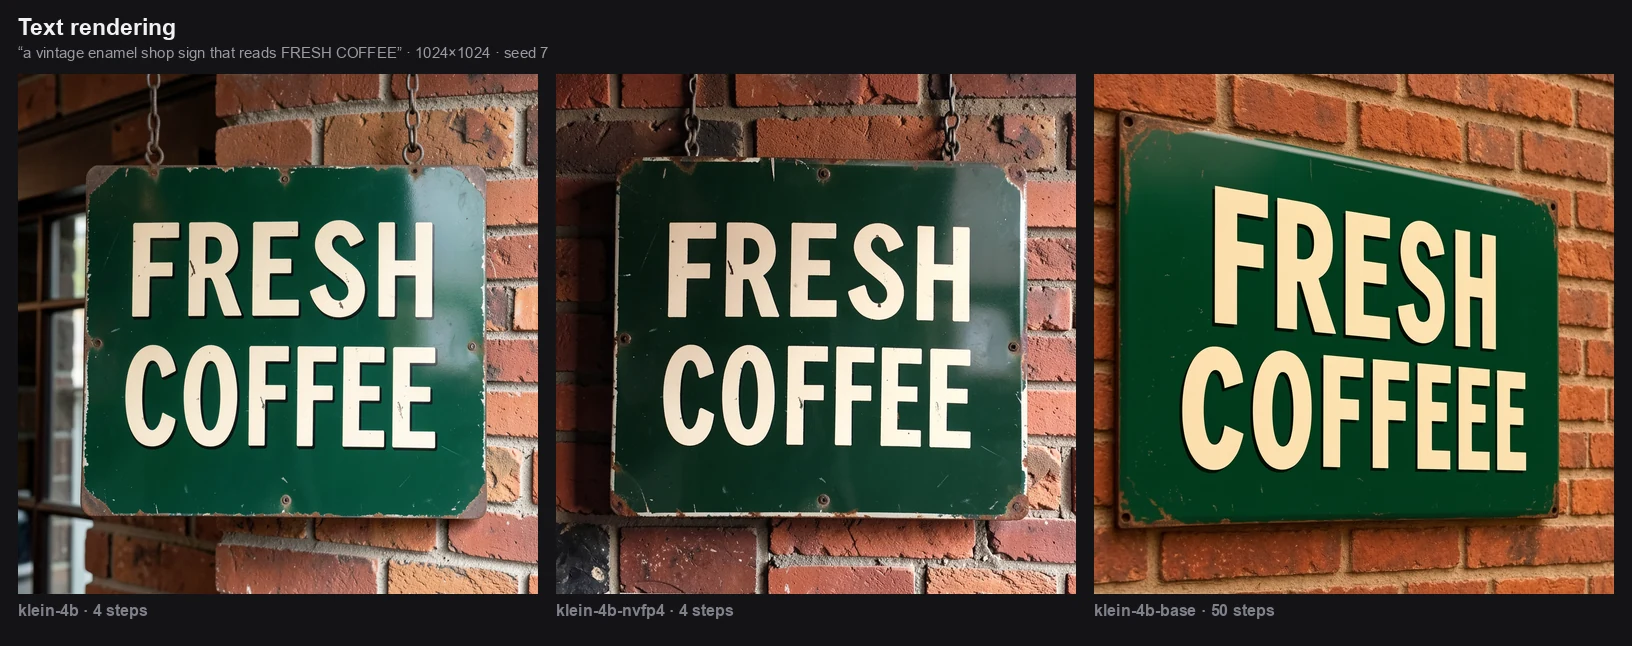
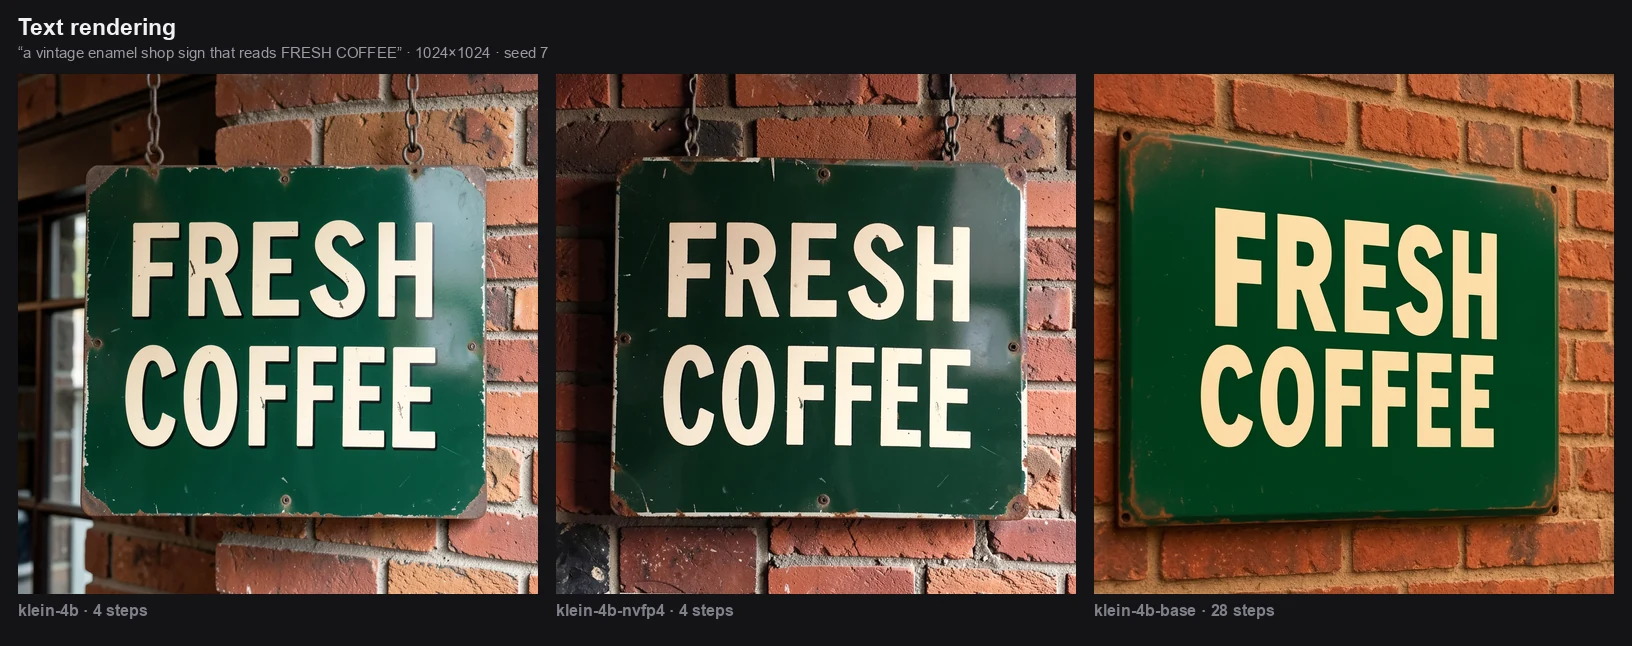
Choose the sampling defaults by grid search
176 generations on an RTX PRO 4500 Blackwell: every step count against every
guidance value for each profile, three seeds per cell, on two prompts. Scored
on whether a sign prompt spelled its two words correctly, which is the one
axis of image quality that can be counted rather than judged, with a product
shot on the same grid so a setting could not win on legibility while ruining
everything else.

Distilled profiles keep 4 steps at cfg 1.0. Two steps is not enough (6 of 9
legible); four is (9 of 9); six and eight buy nothing. Guidance above 1.0
warms the whole frame and by 2.5 the image is visibly outside what the model
was trained for. klein-4b-nvfp4 scored identically, so it shares the values
rather than getting its own.

Base profiles move to 28 steps at cfg 4.0. The step axis has a peak and it is
not at the end: 28 scored 7 of 12, while 50 scored 4 of 12 — tied with 12
steps — for four times the compute. Past 28 the model starts dropping and
duplicating letters. Guidance was flat between 3.0 and 5.0.

The README now carries both grids as figures with the chosen cell marked, and
says plainly that the seed dominates these numbers: they rank settings, they
do not predict a single request.

Sample images regenerated at the new defaults, and the measured table updated:
base is 15.1 s for a 1024 square, not 26.3 s.

diff --git a/app/variants.py b/app/variants.py
@@ -93,16 +93,21 @@ class SamplingDefaults:
 # improving it.
 DISTILLED_SAMPLING = SamplingDefaults(steps=4, guidance=1.0, sampler="euler")
 
-# Base: the official template ships 20 steps at cfg 5.0. This worker serves 50
-# at cfg 4.0 instead — an undistilled model keeps gaining detail well past the
-# template's step count, and cfg 5.0 pushes contrast further than product
-# photography wants. Sampler unchanged.
+# Base: the official template ships 20 steps at cfg 5.0. This worker serves 28
+# at cfg 4.0, chosen by a grid search rather than by taste — steps in
+# {12, 20, 28, 36, 50} against guidance in {3, 4, 5, 6}, three seeds per cell,
+# scored on whether a sign prompt spelled its two words correctly (see
+# docs/samples/grid-base.webp).
 #
-# This is the one place where a shipped default departs from the template, so
-# it is called out rather than left to be discovered: a base request costs
-# roughly 2.5x what the template's numbers would, and callers who want the
-# cheaper setting send steps=20 per request.
-BASE_SAMPLING = SamplingDefaults(steps=50, guidance=4.0, sampler="euler")
+# 28 steps was the peak of that grid: 7 of 12 cells legible, against 4 of 12 at
+# both 12 and 50. More steps than that made spelling worse, not better, and an
+# identical product-shot grid showed no visible gain past 20 either. Guidance
+# barely moved the result anywhere in 3.0-5.0, so 4.0 sits in the middle of a
+# flat region rather than on a peak. Sampler unchanged.
+#
+# This is the one shipped default that departs from the template, so it is
+# explained here rather than left to be discovered.
+BASE_SAMPLING = SamplingDefaults(steps=28, guidance=4.0, sampler="euler")
 
 
 # --------------------------------------------------------------------------

diff --git a/tests/workflows/test_graph.py b/tests/workflows/test_graph.py
@@ -39,7 +39,7 @@ def test_base_encodes_an_actual_empty_prompt() -> None:
     # ConditioningZeroOut here produces wildly oversaturated images that ignore
     # the prompt — confirmed on a real GPU before it was fixed.
     for name in ("klein-4b-base", "klein-4b-base-bf16"):
-        graph = build(variant=get_variant(name), steps=50, guidance=4.0)
+        graph = build(variant=get_variant(name), steps=28, guidance=4.0)
         node = graph[workflow.N_NEGATIVE]
         assert node["class_type"] == "CLIPTextEncode", name
         assert node["inputs"]["text"] == ""

diff --git a/tests/unit/test_config.py b/tests/unit/test_config.py
@@ -199,7 +199,7 @@ def test_no_warning_for_a_base_profile_or_a_lower_count(
     monkeypatch: pytest.MonkeyPatch,
 ) -> None:
     monkeypatch.setenv("FLUX2_VARIANT", "klein-4b-base")
-    monkeypatch.setenv("DEFAULT_STEPS", "28")
+    monkeypatch.setenv("DEFAULT_STEPS", "40")
     assert config_module.step_warning(config_module.load()) is None
 
     monkeypatch.setenv("FLUX2_VARIANT", "klein-4b")

diff --git a/tests/workflows/cases.py b/tests/workflows/cases.py
@@ -37,7 +37,7 @@ def cases() -> Iterator[tuple[str, dict[str, Any]]]:
             width=1024,
             height=1024,
             seed=42,
-            steps=50,
+            steps=28,
             guidance=4.0,
         ),
     )

diff --git a/README.md b/README.md
@@ -33,6 +33,7 @@ and used commercially without a separate agreement. See
 - [API](#api)
 - [Models](#models)
 - [Configuration](#configuration)
+  - [How the defaults were chosen](#how-the-defaults-were-chosen)
 - [Reference images](#reference-images)
 - [Errors](#errors)
 - [Hardware](#hardware)
@@ -77,10 +78,9 @@ three columns. Nothing is cherry-picked from a batch and nothing is retouched.
 ![Text rendering across the three profiles](docs/samples/text.webp)
 
 Legible signage is the capability most worth checking before trusting an image
-model with a banner, and it is where the distilled profiles are strongest. Note
-the base column: at 50 steps it renders an extra letter. On this prompt the
-distilled profiles were the more reliable spellers, which is not the ranking
-the step counts suggest.
+model with a banner. All three spell it here, at each profile's shipped
+defaults — which for the base profile means 28 steps, a value the grid search
+below picked precisely because higher counts started dropping letters.
 
 ### Image editing, one reference
 
@@ -102,8 +102,8 @@ address them positionally.
 ### What the set shows
 
 - **`klein-4b` is the right default.** At 4 steps it is not a preview tier; it
-  is the production output, and it renders text more reliably than the base
-  profile does here.
+  is the production output, and across the grid search it was the more
+  reliable speller of the three.
 - **`klein-4b-nvfp4` is visually near-identical to `klein-4b`** at the same
   seed. It is the small-download option, not the fast one — see
   [Measured](#measured).
@@ -219,8 +219,8 @@ everything else follows from it.
 | `klein-4b` *(default)* | fp8 | 4 | baked in | Best speed/size balance |
 | `klein-4b-bf16` | bf16 | 4 | 7.8 GB | Full-precision reference |
 | `klein-4b-nvfp4` | NVFP4 | 4 | 2.5 GB | Blackwell only (compute ≥ 12.0) |
-| `klein-4b-base` | fp8 | 50 | 4.1 GB | Slower, stronger prompt adherence |
-| `klein-4b-base-bf16` | bf16 | 50 | 7.8 GB | Quality ceiling of this family |
+| `klein-4b-base` | fp8 | 28 | 4.1 GB | Slower, stronger prompt adherence |
+| `klein-4b-base-bf16` | bf16 | 28 | 7.8 GB | Quality ceiling of this family |
 
 All five share the same Qwen3-4B text encoder and FLUX.2 VAE, both baked into
 the image, so switching profiles only downloads a diffusion model.
@@ -247,7 +247,7 @@ be measurable by this method.
 |---|---|---|---|---|
 | `klein-4b` (4 steps) | 2.0 s | 3.5 s | 5.0 s | 12.8 GB |
 | `klein-4b-nvfp4` (4 steps) | 3.5 s | 6.0 s | 9.3 s | 11.2 GB |
-| `klein-4b-base` (50 steps) | 26.3 s | 56.6 s | 94.7 s | 12.8 GB |
+| `klein-4b-base` (28 steps) | 15.1 s | 32.1 s | 53.6 s | 12.8 GB |
 
 Excluding the first image of a run, which carries the model load.
 
@@ -259,9 +259,9 @@ Two things worth reading off that table:
 - **VRAM barely moves between profiles**, because the bf16 text encoder sets
   the floor. Only `FLUX2_TEXT_ENCODER=fp4` moves it, and it moves it by about
   1.5 GB.
-- **The base profile is an order of magnitude slower**, and on a busy endpoint
-  a two-reference edit at 95 s is a very different cost model from 5 s. Budget
-  for it before choosing that profile.
+- **The base profile is roughly an order of magnitude slower**, and on a busy
+  endpoint a two-reference edit at 54 s is a very different cost model from
+  5 s. Budget for it before choosing that profile.
 
 ---
 
@@ -276,11 +276,70 @@ credential is needed on the default path.
 |---|---|---|
 | `FLUX2_VARIANT` | `klein-4b` | Which model to serve |
 
+### How the defaults were chosen
+
+Each profile's step count and guidance came out of a grid search on real
+hardware, not out of taste. 176 generations: every step count against every
+guidance value, three seeds per cell, on two prompts.
+
+The score is deliberately objective. A sign prompt — *“a vintage enamel shop
+sign that reads FRESH COFFEE”* — either spells its two words or it does not,
+and that can be counted by looking. A product shot ran alongside on the same
+grid, so a setting could not win on legibility while quietly ruining
+everything else.
+
+#### Distilled profiles: 4 steps, cfg 1.0
+
+![Steps against guidance for klein-4b](docs/samples/grid-distilled.webp)
+
+| Steps | Legible (of 9) |
+|---|---|
+| 2 | 6 |
+| **4** | **9** |
+| 6 | 9 |
+| 8 | 9 |
+
+Two steps is not enough; four is. Six and eight spell just as well, cost
+proportionally more, and change the composition rather than refine it, so
+there is nothing to buy above four. Guidance above 1.0 warms the whole frame —
+by cfg 2.5 the brick has gone orange and the lettering glows — which is the
+distilled model being pushed outside what it was trained for. `klein-4b-nvfp4`
+scored identically and shares these values.
+
+#### Base profiles: 28 steps, cfg 4.0
+
+![Steps against guidance for klein-4b-base](docs/samples/grid-base.webp)
+
+| Steps | Legible (of 12) |
+|---|---|
+| 12 | 4 |
+| 20 | 6 |
+| **28** | **7** |
+| 36 | 5 |
+| 50 | 4 |
+
+The step axis has a peak and it is not at the end: past 28, spelling gets
+*worse*, and 50 steps scored no better than 12 while costing four times as
+much. The product-shot grid was effectively flat from 20 steps upward, so
+nothing else argues for going higher either. Guidance barely moved the outcome
+anywhere between 3.0 and 5.0 — cfg 4.0 sits in the middle of a flat region
+rather than on a peak, and 6.0 was slightly worse.
+
+This is why the shipped base default is 28 steps at cfg 4.0 where the official
+ComfyUI template says 20 at 5.0 — the only place this worker departs from the
+template, and the reason is in the grid above.
+
+Worth being honest about what this measures: three seeds per cell on one
+prompt. The seed dominates everything — one of the three spelled correctly in
+all 20 base cells, another in only one — so these numbers rank settings, they
+do not predict a single request. The base profile is the weaker speller
+overall, which is not what the step counts would suggest.
+
 ### Sampling steps
 
 `DEFAULT_STEPS` sets the step count for requests that do not carry their own.
 Leave it empty and each profile uses its own default — 4 for the distilled
-models, 50 for the base ones. A request that sends `steps` overrides it either
+models, 28 for the base ones. A request that sends `steps` overrides it either
 way, so this is the endpoint's house default, not a ceiling.
 
 Worth knowing before you raise it on a distilled profile. Measured on the bag
@@ -295,7 +354,7 @@ The base profiles are the opposite case: undistilled, so the extra steps are
 doing real work, which is why they default to 50.
 
 If what you want is more quality rather than more steps, the profile is the
-lever: `klein-4b-base` samples at 50 steps and cfg 4.0, where the extra
+lever: `klein-4b-base` samples at 28 steps and cfg 4.0, where the extra
 compute is doing something the model was trained to use.
 
 `guidance` is deliberately **not** an environment variable. It is a per-request

diff --git a/docs/design.md b/docs/design.md
@@ -97,11 +97,12 @@ The distilled values come from the official ComfyUI templates: 4 steps at cfg
 1.0. That is the count the model is trained to converge in, so it is the
 model's number rather than a choice.
 
-The base profiles ship 50 steps at cfg 4.0, where the template says 20 at 5.0.
-An undistilled model keeps gaining detail past 20, and cfg 5.0 overshoots the
-contrast that product photography wants. This is a deliberate departure and the
-only one, which is why `app/variants.py` explains it at the constant rather
-than leaving it to be found.
+The base profiles ship 28 steps at cfg 4.0, where the template says 20 at 5.0.
+That came out of a grid search — five step counts against four guidance values,
+three seeds per cell, scored on whether a text prompt rendered legibly — not
+out of taste. 28 was the peak; 50 was tied for worst. This is a deliberate
+departure and the only one, which is why `app/variants.py` explains it at the
+constant rather than leaving it to be found.
 
 Either way the point stands: a worker with plausible-looking guessed defaults
 runs perfectly and produces quietly worse images, which is a much more
